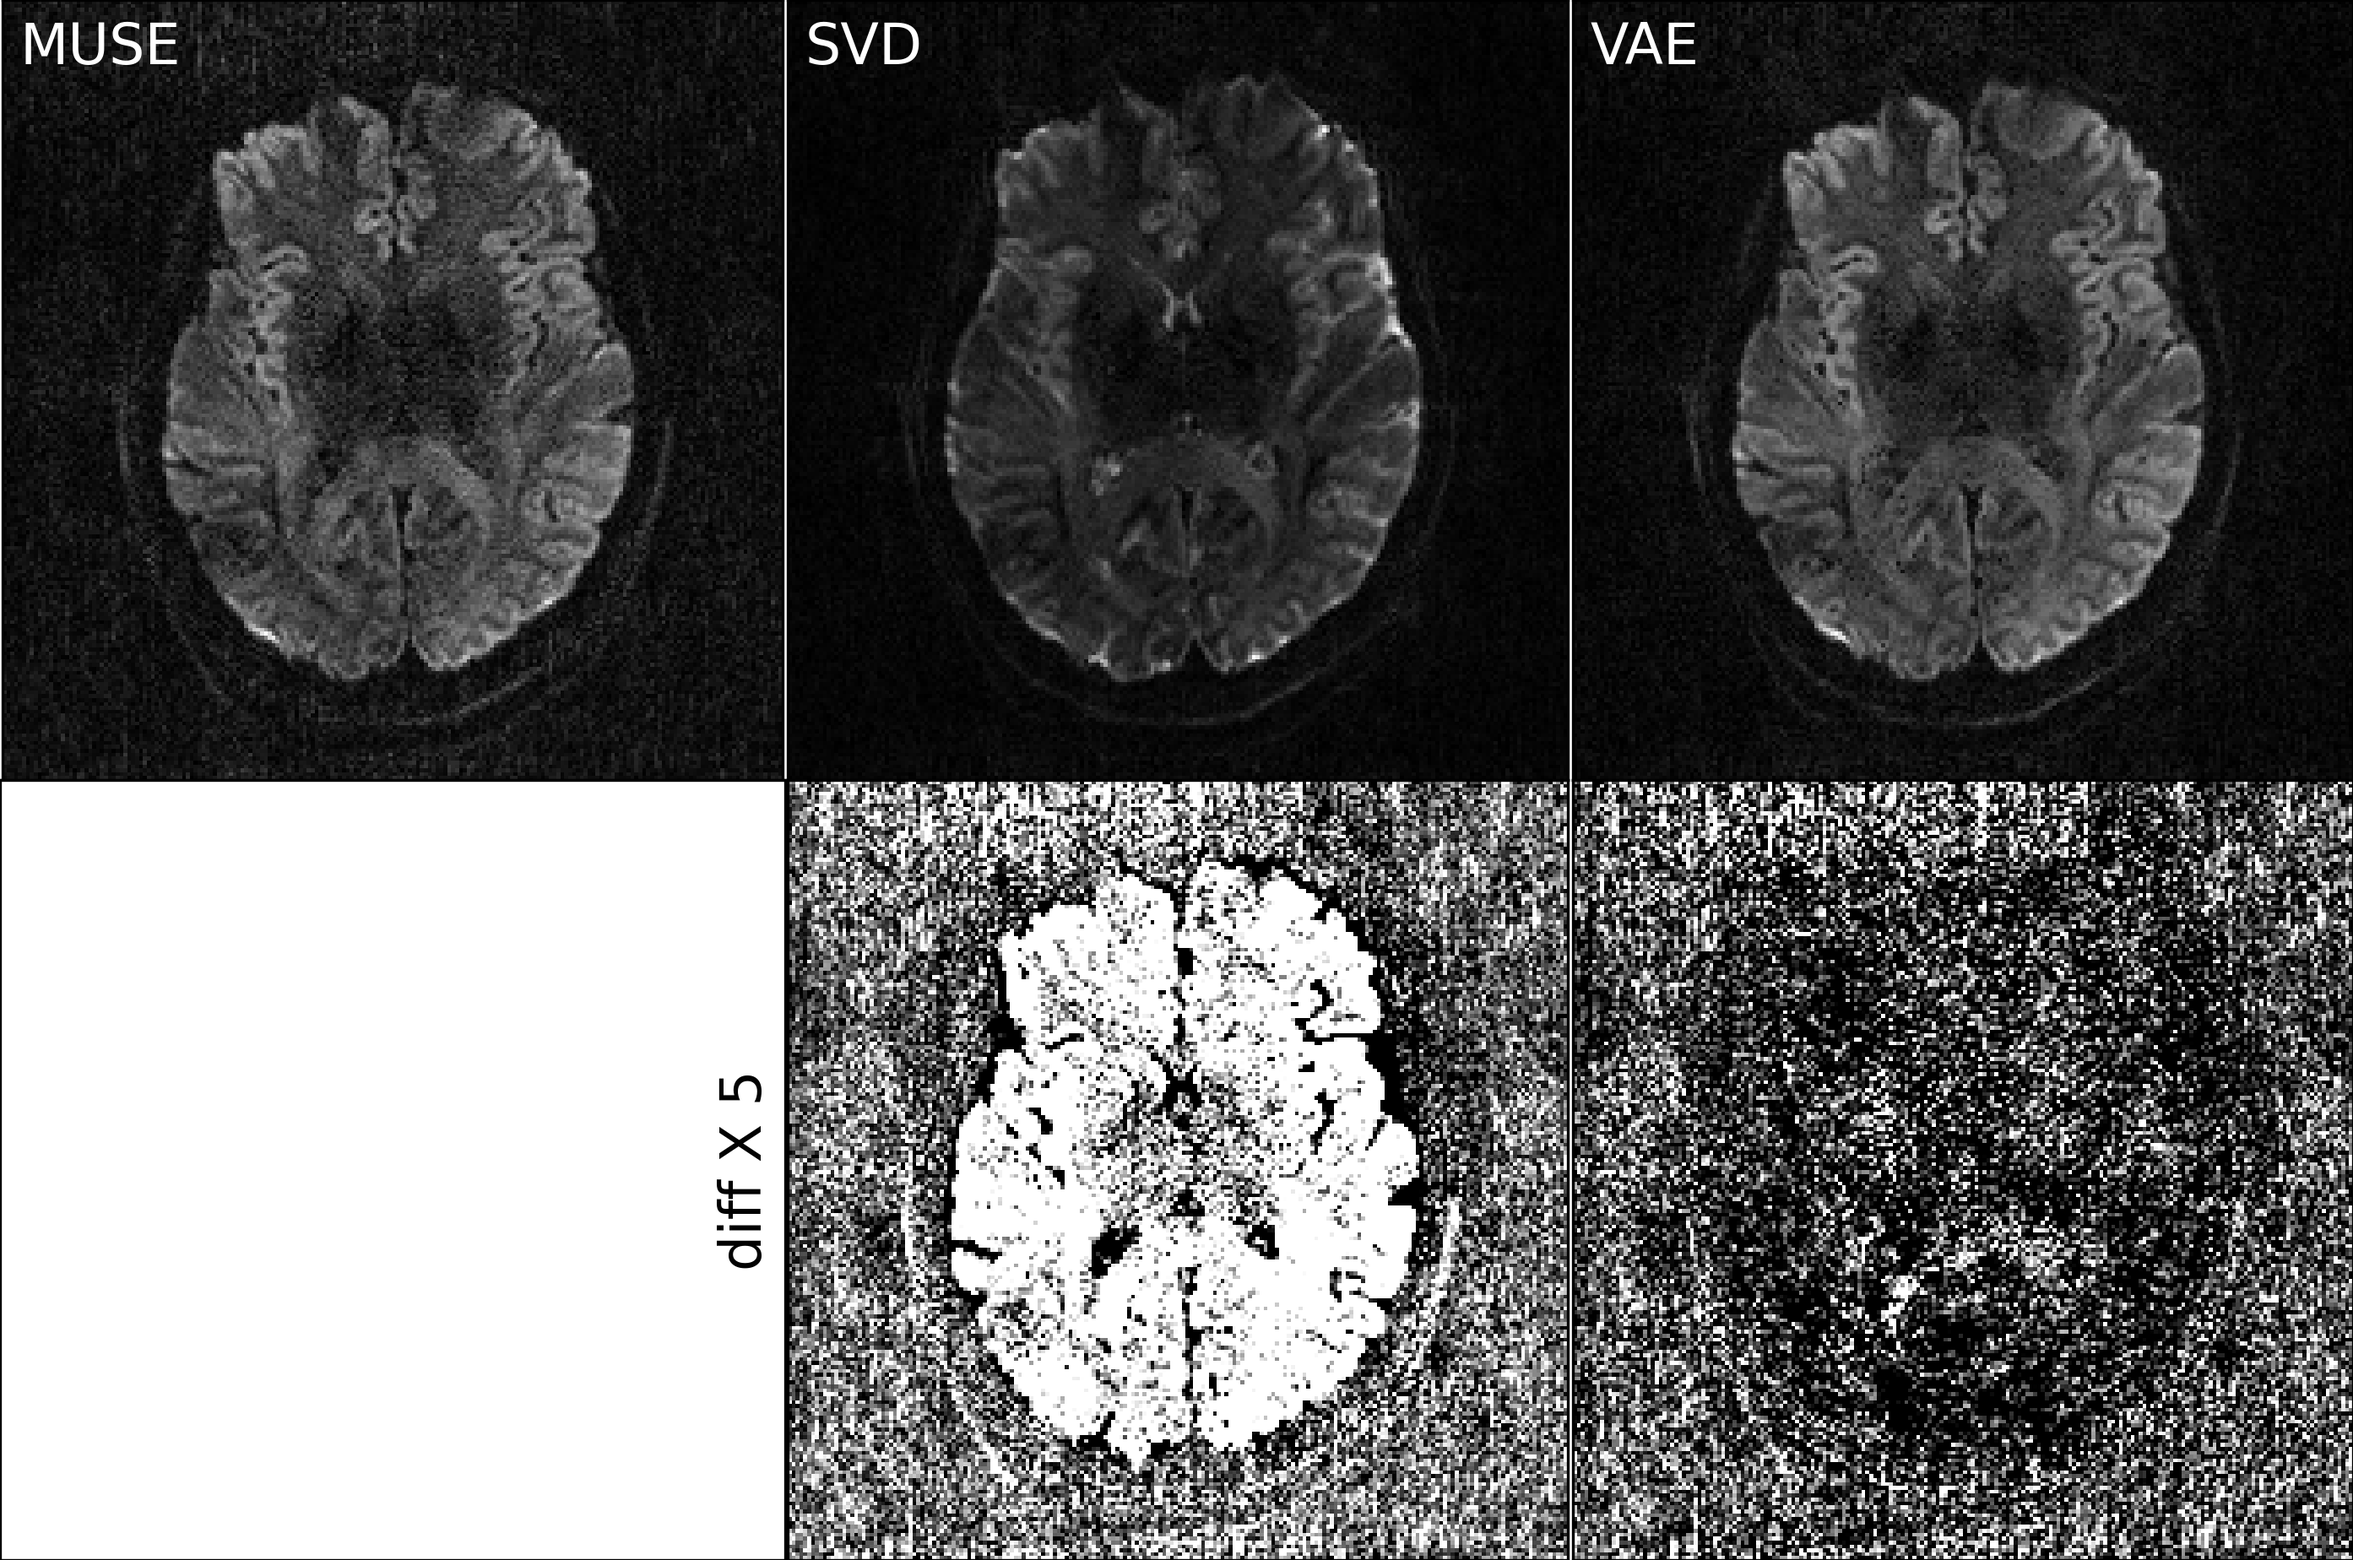
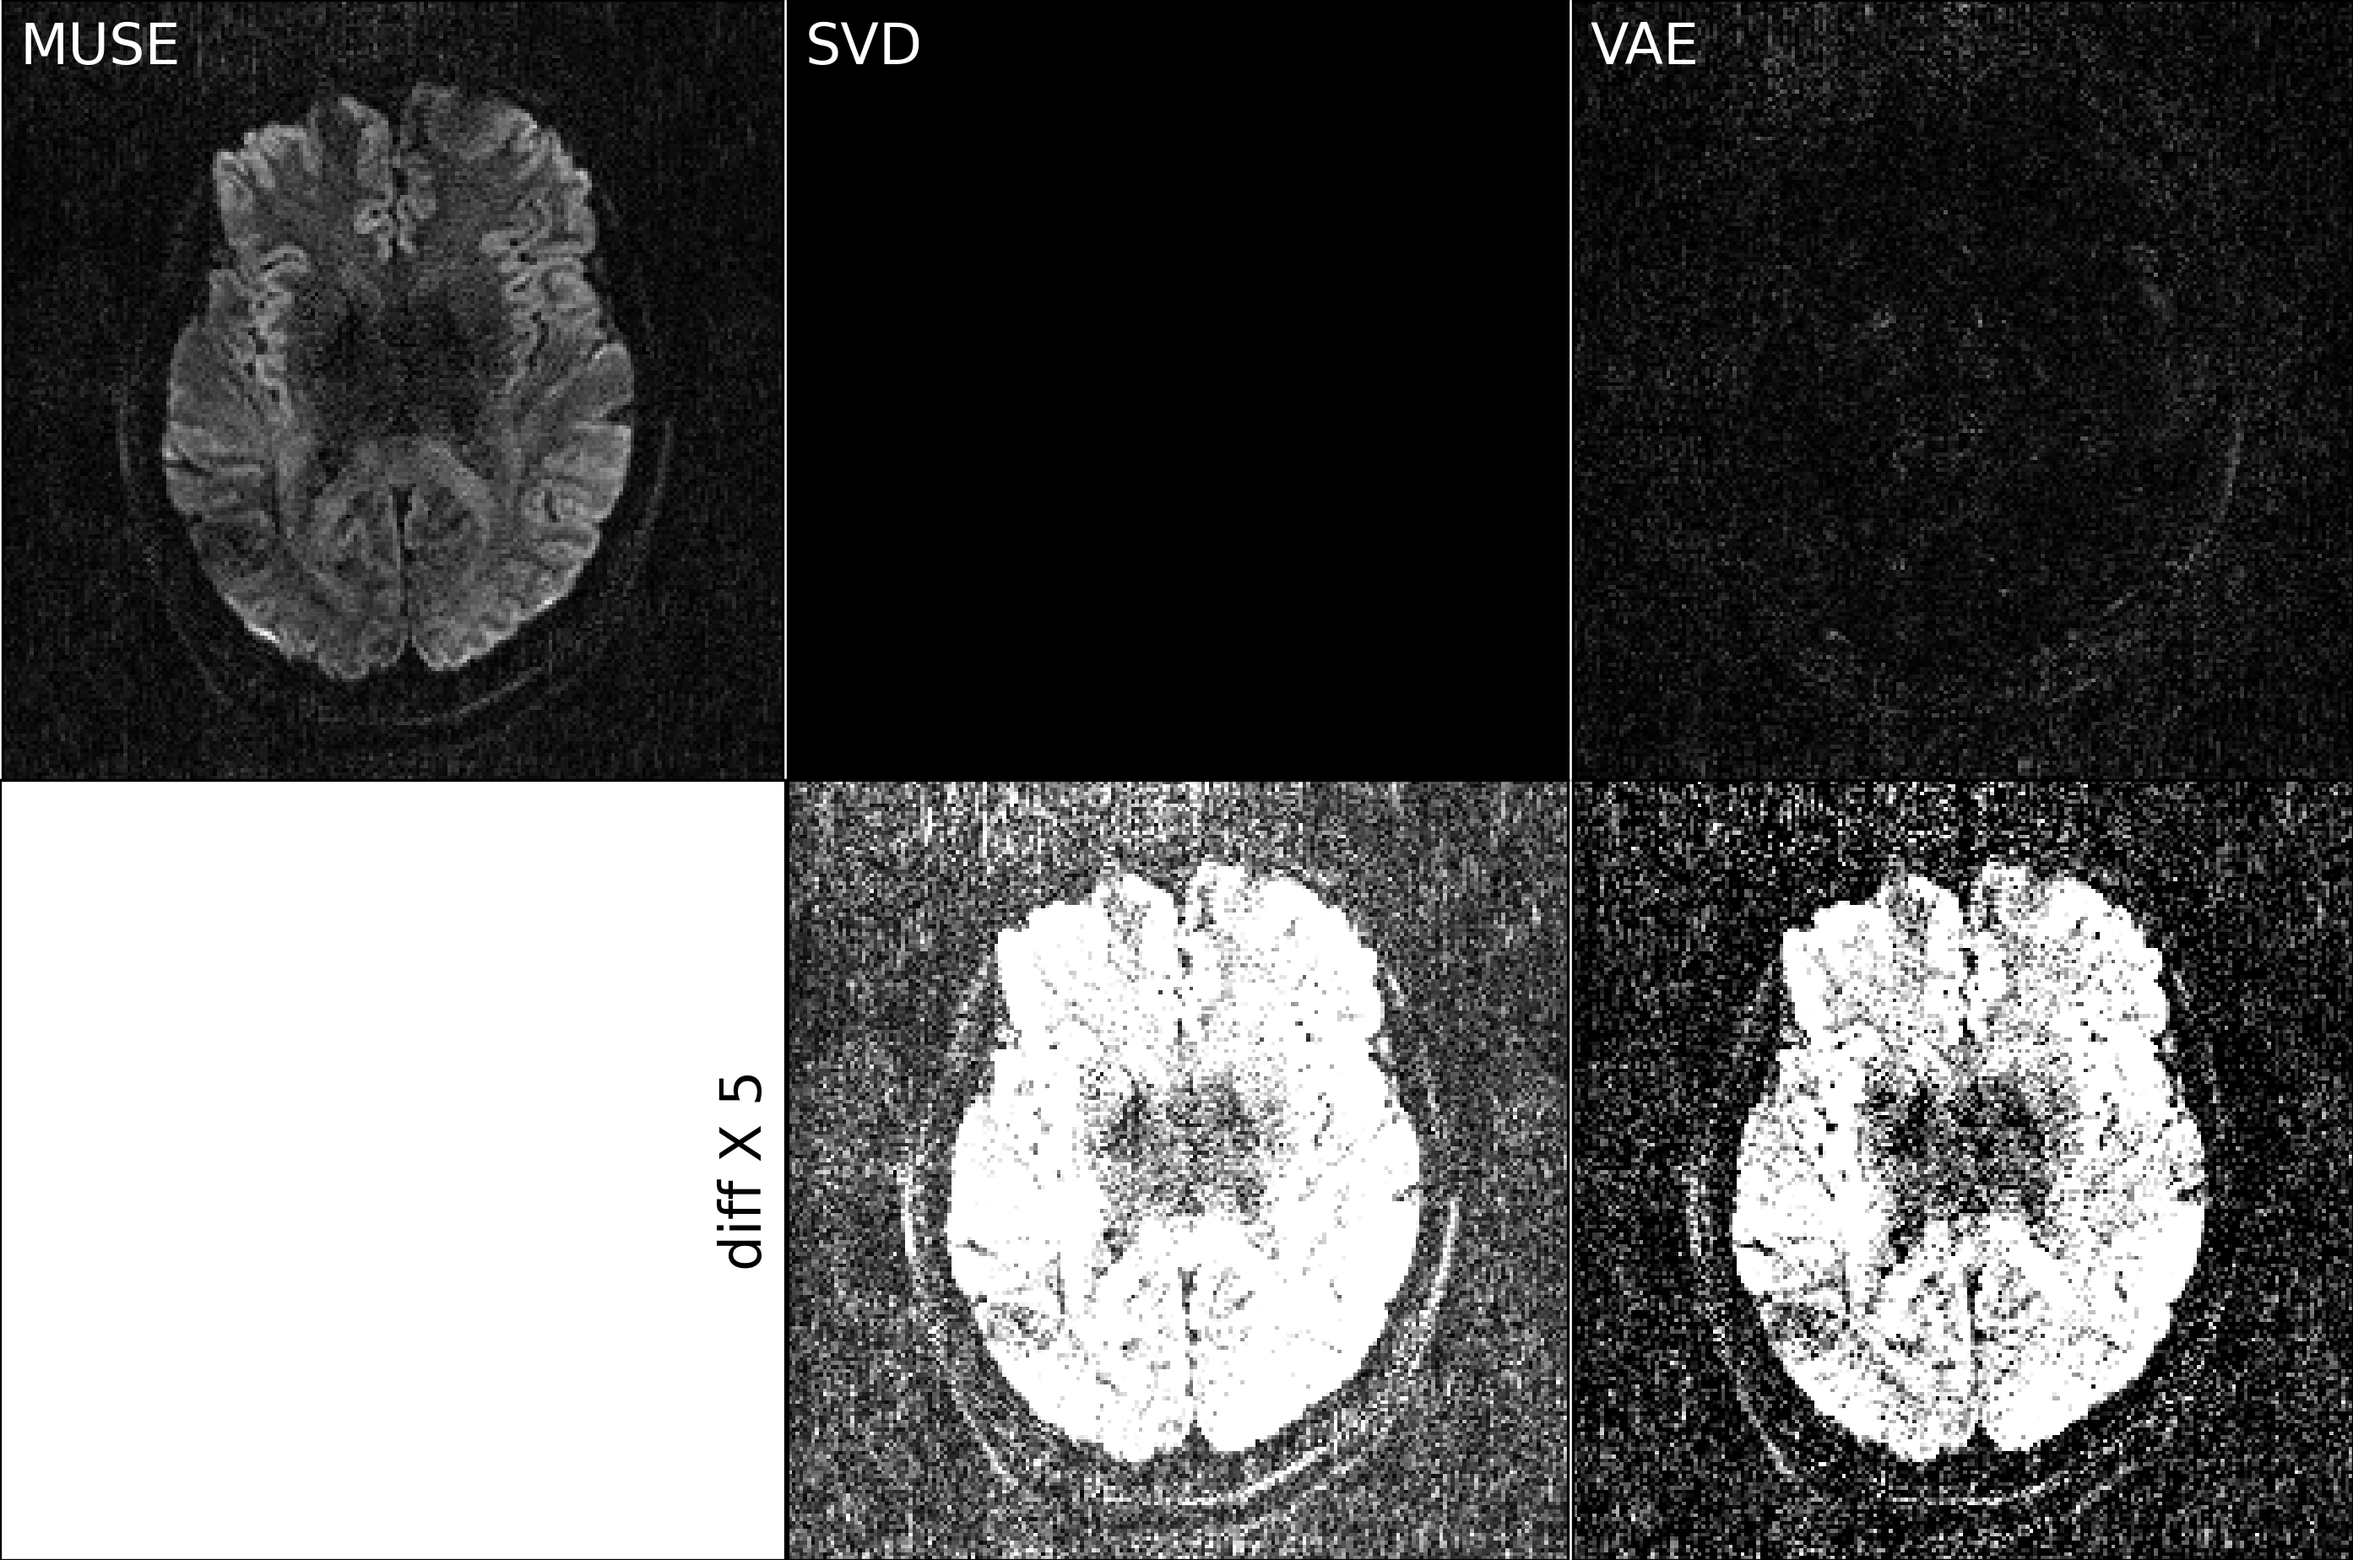
prox.VAE allows for regularization strength
* update vae_vs_linsub figures

diff --git a/deepdwi/models/prox.py b/deepdwi/models/prox.py
@@ -18,6 +18,7 @@ class VAE(nn.Module):
         self.model = model
 
     def forward(self, input: torch.Tensor,
+                alpha: float = 1.,
                 contrast_dim: int = DIM_TIME):
         baseline = input[0]
 
@@ -34,13 +35,13 @@ class VAE(nn.Module):
         output4_shape = output4.shape
 
         # magnitude and phase
-        output4_mag = abs(output4)
+        output4_mag = abs(output4).float()
         output4_phs = torch.angle(output4)
 
         with torch.no_grad():
             output5, _, _ = self.model(output4_mag)
 
-        output5 = output5 * output4_phs
+        output5 = alpha * output5 * output4_phs
 
         output4b = torch.transpose(output5, 1, 0)
 

diff --git a/figures/vae_vs_linsub/run_brain.py b/figures/vae_vs_linsub/run_brain.py
@@ -62,7 +62,7 @@ DWI_MUSE_tensor = torch.from_numpy(DWI_MUSE).to(device)
 
 prox_vae = prox.VAE(model)
 
-DWI_VAE_tensor = prox_vae(DWI_MUSE_tensor, 0)
+DWI_VAE_tensor = prox_vae(DWI_MUSE_tensor, contrast_dim=0)
 DWI_VAE = DWI_VAE_tensor.detach().cpu().numpy()
 
 
